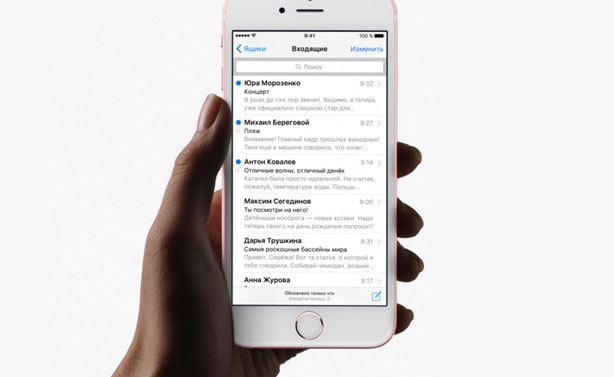
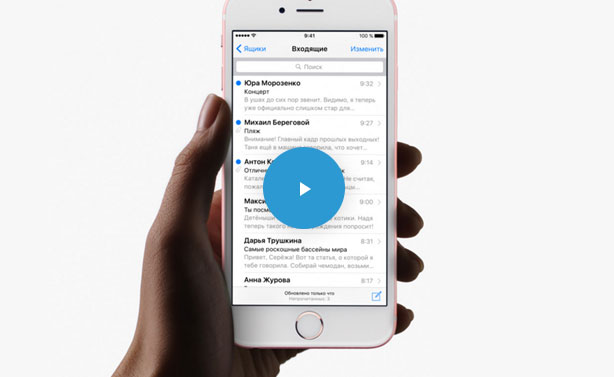
Video 2

Changed region(s): [[0.4023, 0.3793, 0.5879, 0.6127]]

diff --git a/content.html b/content.html
@@ -82,7 +82,9 @@
           , вы сразу почувствуете, насколько всё изменилось. Технология 3D Touch открывает потрясающие новые возможности — достаточно одного нажатия. А функция Live Photos позволяет буквально оживить ваши воспоминания. И это только начало. Присмотритесь к iPhone 6s внимательнее, и вы увидите инновации на всех уровнях.
         </p>
         <h3>Новое поколение Multi-Touch.</h3>
-        <video controls='' src='/video/content.mp4'></video>
+        <video poster='img/content-video.jpg' src='/video/content.mp4'>
+          Ваш браузер не поддерживает видео
+        </video>
         <p>
           С появлением iPhone мир узнал о технологии Multi-Touch, которая навсегда изменила способ взаимодействия с устройствами. Технология 3D Touch открывает совершенно новые возможности. Она позволяет различать силу нажатия на дисплей, что делает многие функции быстрее и удобнее. Кроме того, телефон реагирует на каждый жест лёгким тактильным откликом благодаря использованию нового привода Taptic Engine.
         </p>
@@ -182,6 +184,6 @@
       </div>
     </div>
     <script src='js/jquery-2.1.4.min.js'></script>
-    <script src='js/dropdowns.js'></script>
+    <script src='js/script.js'></script>
   </body>
 </html>

diff --git a/js/script.js b/js/script.js
@@ -5,6 +5,14 @@ $(document).ready(function($) {
     $('.catalog-dropdown-wrapper').slideToggle()
   });
 
-  $('video').click(function(){this.paused?this.play():this.pause();});
+  $('video').click(function(){
+    if (this.paused){
+      this.play();
+      $(this).attr('controls','');
+    }
+    else{
+      this.pause();
+    }
+  });
 
 });

diff --git a/style/style.css b/style/style.css
@@ -475,6 +475,7 @@ footer .button-map {
 
 video {
   width: 100%;
+  position: relative;
 }
 
 .login .signin, .login .reg {
@@ -768,6 +769,10 @@ video {
   font-family: Intro-Book, Arial, Helvetica, sans-serif;
   font-size: 26px;
   margin-top: 50px;
+}
+
+.content video {
+  margin: 40px 0;
 }
 
 .content .quote {

diff --git a/cart.html b/cart.html
@@ -6,7 +6,7 @@
       Корзина
     </title>
     <script src='js/jquery-2.1.4.min.js'></script>
-    <script src='js/dropdowns.js'></script>
+    <script src='js/script.js'></script>
     <link href='style/style.css' rel='stylesheet'>
   </head>
   <body>

diff --git a/login.html b/login.html
@@ -6,7 +6,7 @@
       Главная
     </title>
     <script src='js/jquery-2.1.4.min.js'></script>
-    <script src='js/dropdowns.js'></script>
+    <script src='js/script.js'></script>
     <link href='style/style.css' rel='stylesheet'>
   </head>
   <body>

diff --git a/main.html b/main.html
@@ -6,7 +6,7 @@
       Главная
     </title>
     <script src='js/jquery-2.1.4.min.js'></script>
-    <script src='js/dropdowns.js'></script>
+    <script src='js/script.js'></script>
     <link href='style/style.css' rel='stylesheet'>
   </head>
   <body>

diff --git a/assets/content.scss b/assets/content.scss
@@ -30,6 +30,9 @@
     font-size: 26px;
     margin-top:50px;
   }
+  video{
+    margin: 40px 0;
+  }
   .quote{
     text-align: center;
     border-top: 2px solid $f2;

diff --git a/assets/style.scss b/assets/style.scss
@@ -422,6 +422,7 @@ footer{
 }
 video{
   width: 100%;
+  position: relative;
 }
 @import 'login';
 @import 'cart';
